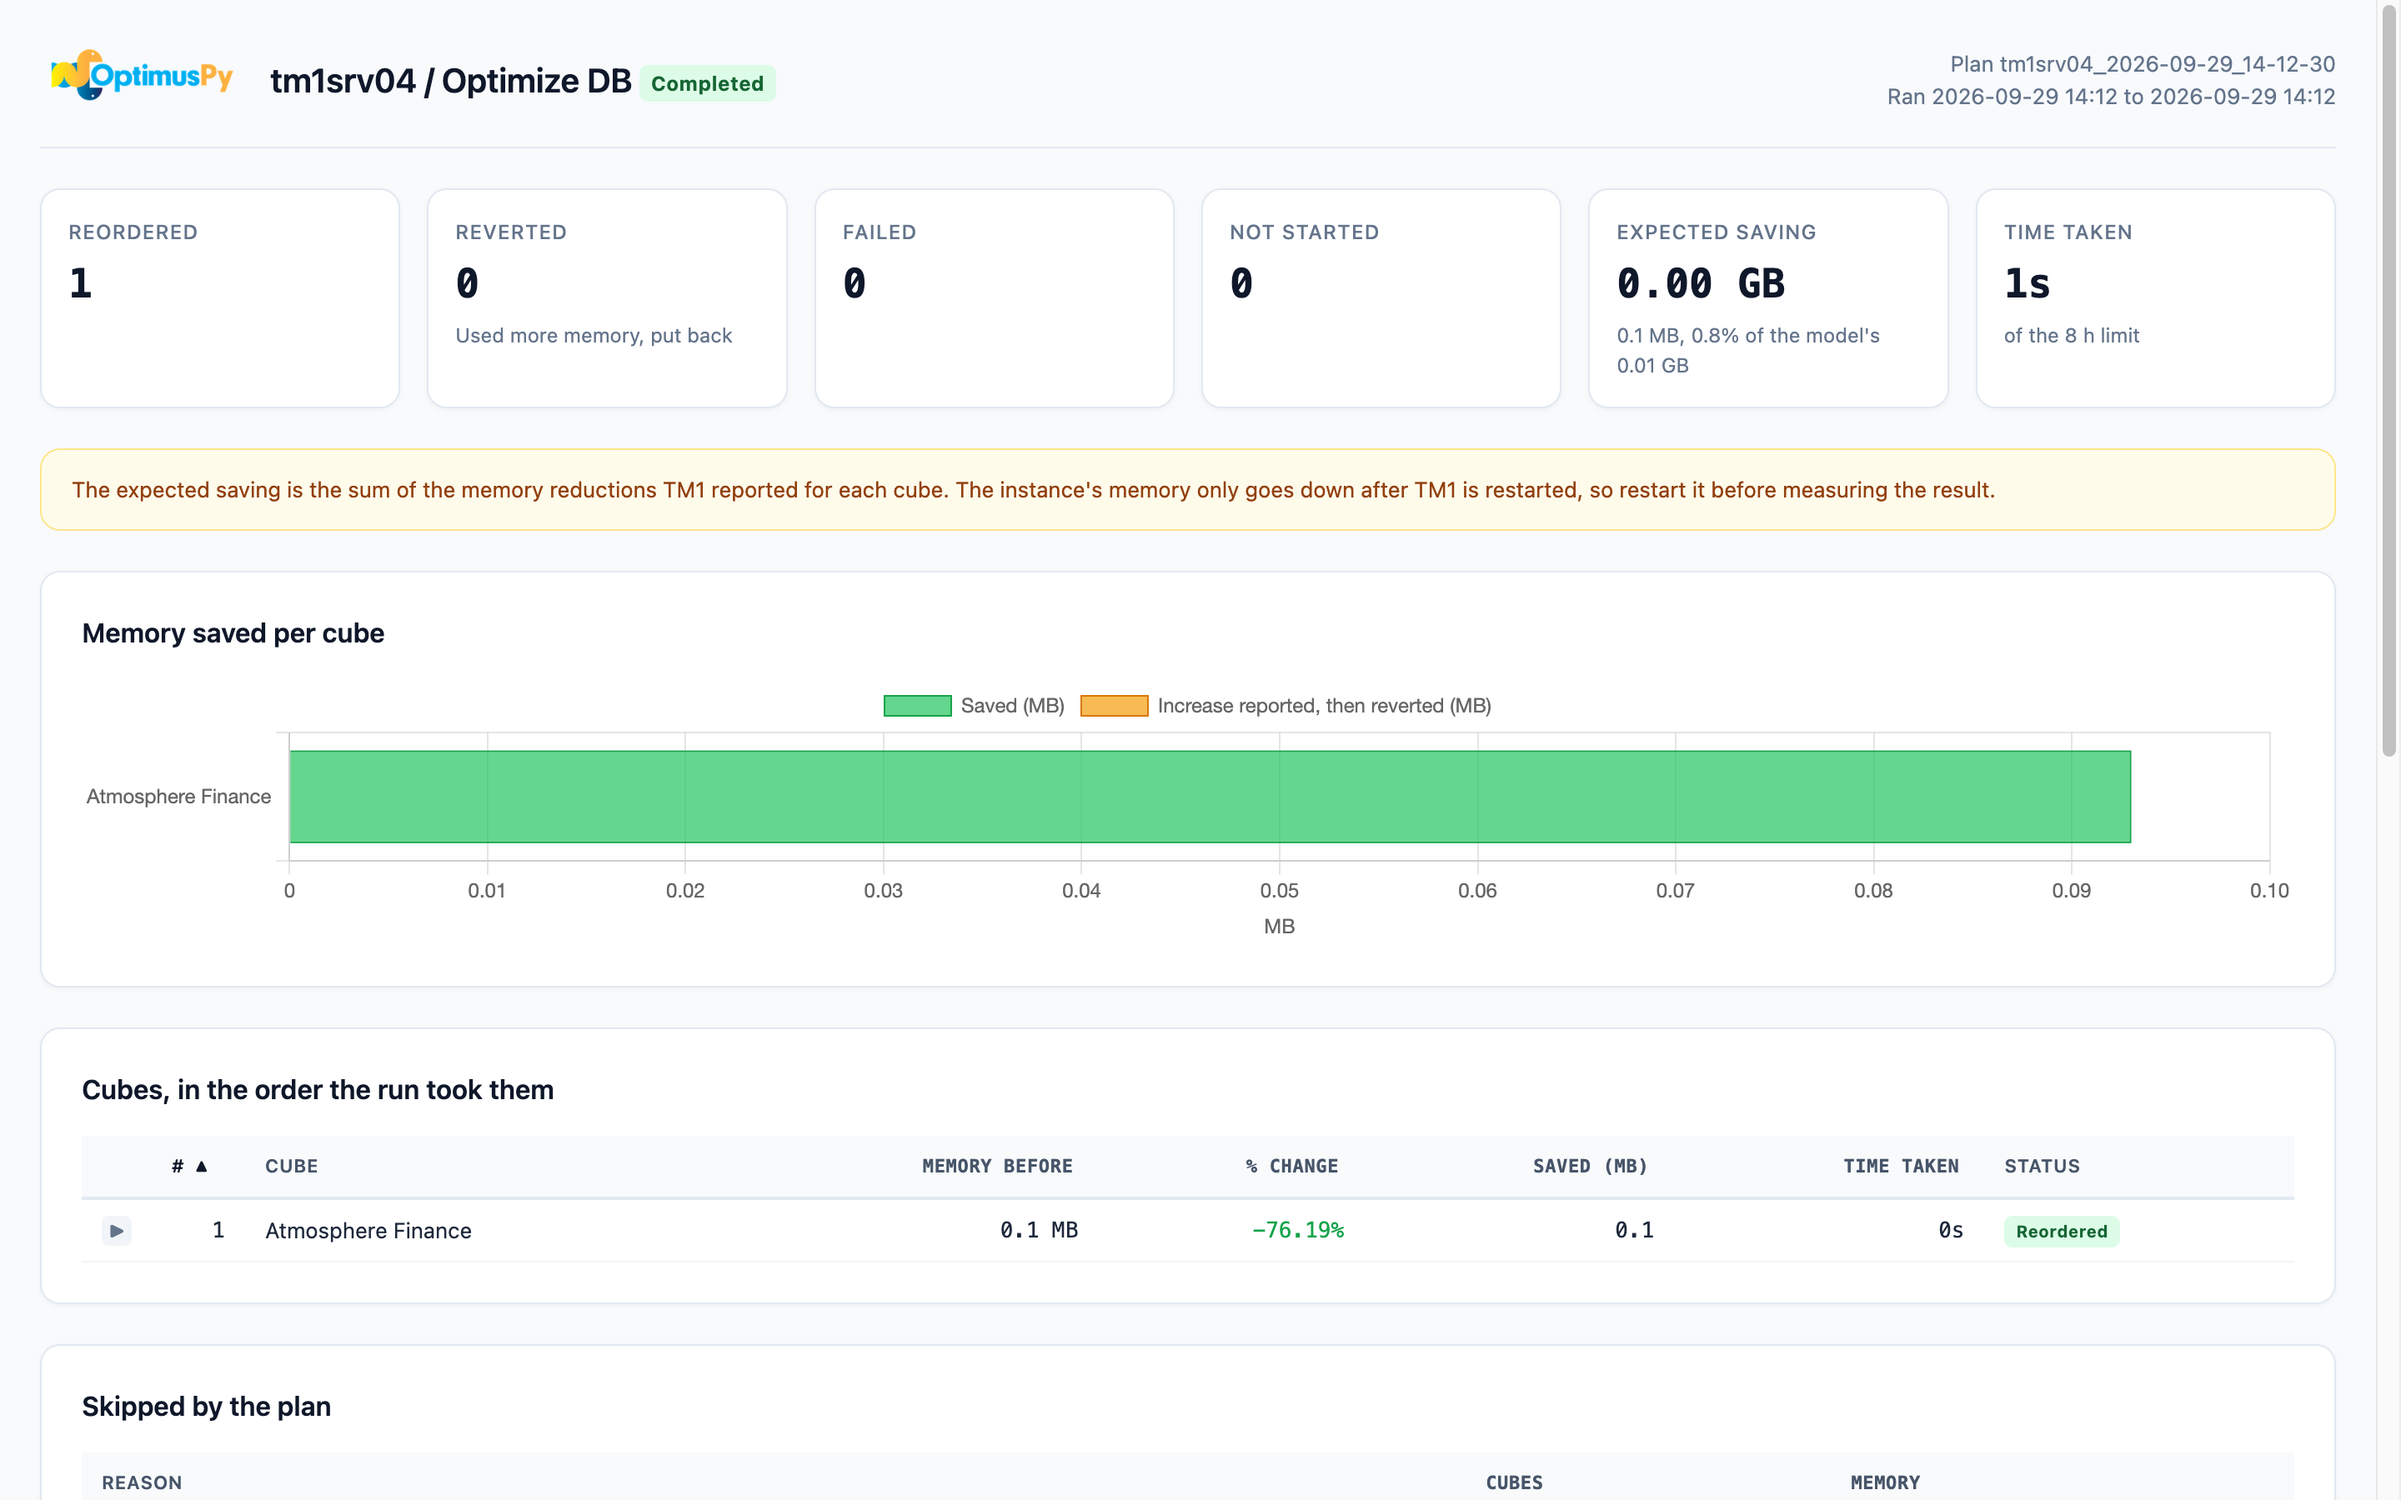
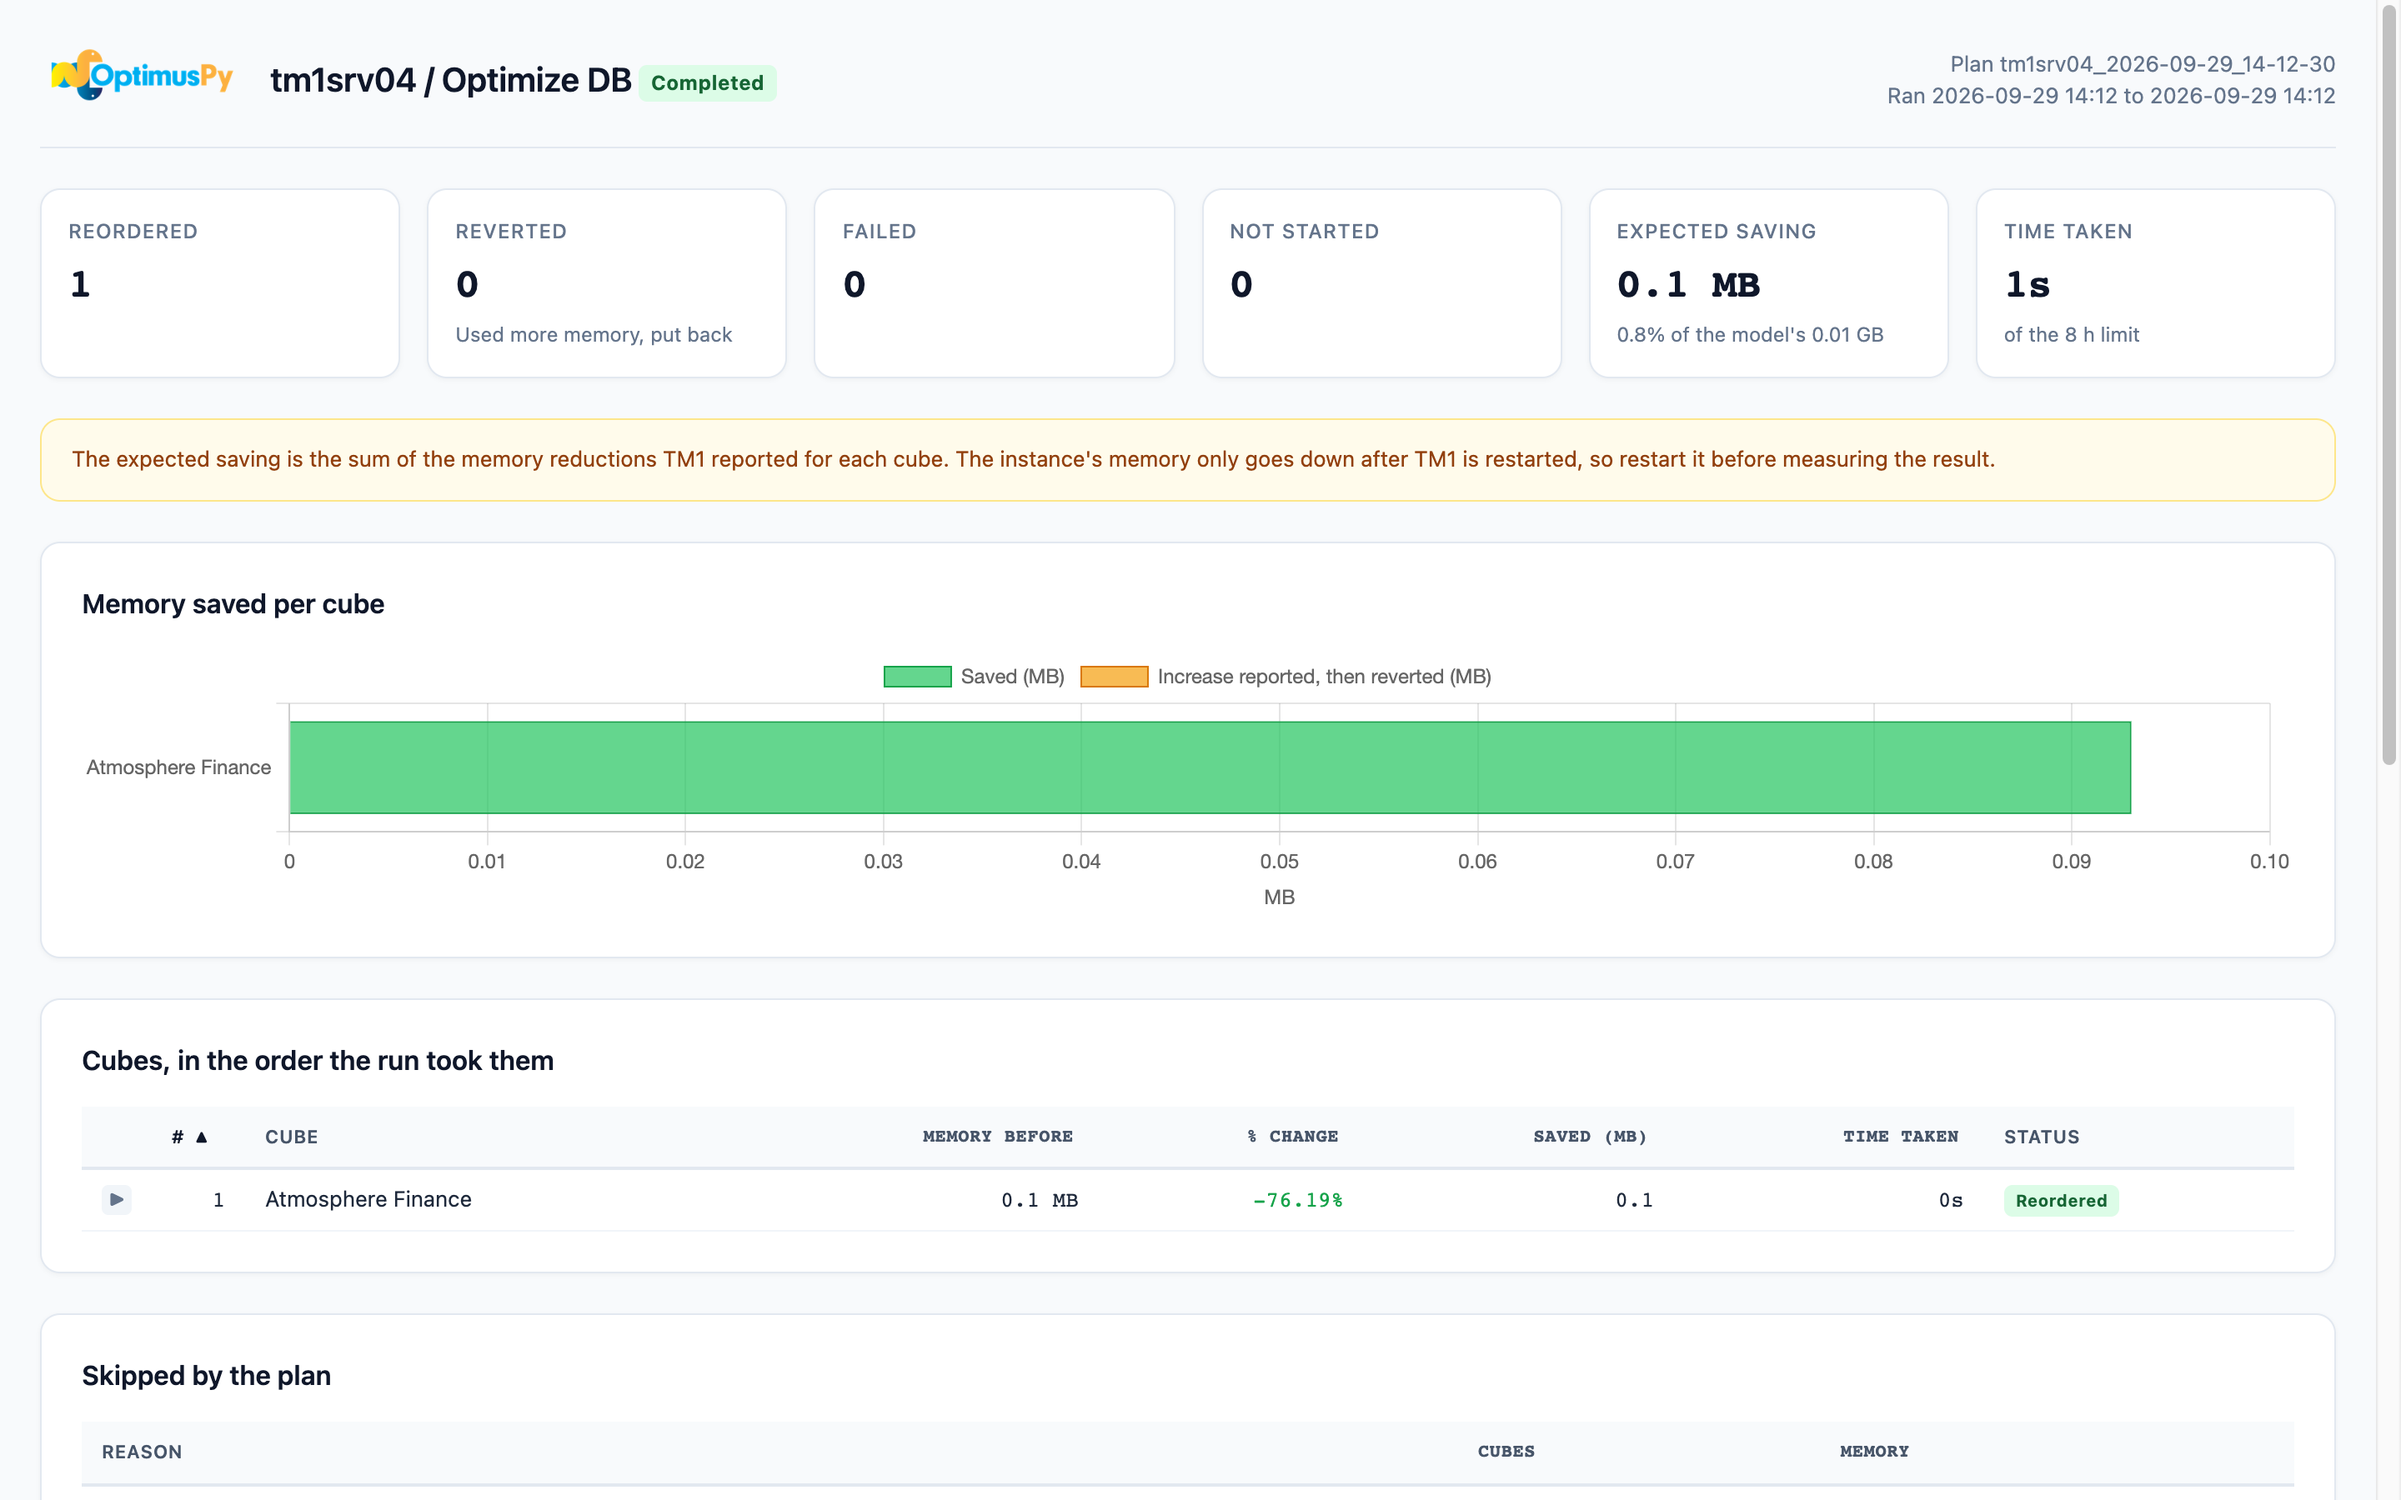
reports: a save in progress never shows in the listing, and a small saving reads in MB

diff --git a/src/optimuspy/optimize_db.py b/src/optimuspy/optimize_db.py
@@ -1055,9 +1055,9 @@ def write_report(plan: dict, run: dict, path: Path):
 
     model_bytes = plan.get("total_model_ram_bytes") or 0
     saved = totals["bytes_saved"]
-    share = f"{saved / 1024 ** 2:,.1f} MB"
-    if model_bytes:
-        share += f", {saved / model_bytes:.1%} of the model's {_gb(model_bytes):.2f} GB"
+    # Under a gigabyte the card reads in MB, so a small model doesn't show 0.00 GB.
+    saved_text = f"{_gb(saved):.2f} GB" if saved >= 1024 ** 3 else f"{saved / 1024 ** 2:,.1f} MB"
+    share = f"{saved / model_bytes:.1%} of the model's {_gb(model_bytes):.2f} GB" if model_bytes else ""
     limit = options.get("time_limit_hours")
     elapsed = format_duration(totals["elapsed_s"]) if run.get("finished_at") else "—"
 
@@ -1071,7 +1071,7 @@ def write_report(plan: dict, run: dict, path: Path):
         card("Reverted", totals["cubes_reverted"], "Used more memory, put back"),
         card("Failed", totals["cubes_failed"]),
         card("Not started", totals["cubes_pending"]),
-        card("Expected saving", f"{_gb(saved):.2f} GB", share),
+        card("Expected saving", saved_text, share),
         card("Time taken", elapsed, f"of the {limit:g} h limit" if limit is not None else ""),
     ])
 

diff --git a/tests/test_ui_server.py b/tests/test_ui_server.py
@@ -798,6 +798,7 @@ def test_reports_are_grouped_by_instance_cube_and_run(ui_server, tmp_path):
     _write_json(_plan_file(tmp_path, plan_only), {"plan_id": plan_only})
     _touch(tmp_path, "checkpoint_Sales.json")
     _touch(tmp_path, f"{inst}/notes.txt")
+    _touch(tmp_path, f"{inst}/optdb_run_{with_report}.tmp")
     _touch(tmp_path, "Sales_2025-01-01_10-00-00.csv")
 
     tree = _reports(base)
@@ -828,6 +829,7 @@ def test_reports_are_grouped_by_instance_cube_and_run(ui_server, tmp_path):
     assert [c["cube"] for c in legacy["cubes"]] == ["Sales"]
     assert _names(legacy["cubes"][0]["runs"][0]["data"]) == ["Sales_2025-01-01_10-00-00.csv"]
     assert "checkpoint" not in json.dumps(tree)
+    assert ".tmp" not in json.dumps(tree)
 
 
 def test_a_run_file_that_does_not_parse_still_lists_without_a_status(ui_server, tmp_path):

diff --git a/src/optimuspy/ui.py b/src/optimuspy/ui.py
@@ -402,9 +402,13 @@ def _reports_tree() -> dict:
     for name, files in folders.items():
         cube_runs, db_runs, other = {}, {}, []
         for f in files:
-            if f.name.startswith("checkpoint"):
+            # A `.tmp` file is a save in progress, gone once it lands.
+            if f.name.startswith("checkpoint") or f.suffix == ".tmp":
                 continue
-            stat = f.stat()
+            try:
+                stat = f.stat()
+            except FileNotFoundError:
+                continue
             info = {"filename": f.relative_to(root).as_posix(), "type": f.suffix[1:],
                     "size": stat.st_size, "modified": stat.st_mtime}
             db = next(((f.stem[len(prefix):], kind) for prefix, suffix, kind in db_kinds

diff --git a/docs/ui/reports-page.md b/docs/ui/reports-page.md
@@ -75,7 +75,7 @@ The Optimize DB report has the same look as the single-cube report, with its own
 From top to bottom:
 
 1. **Header**: the instance, the plan id, when the run started and ended, and its status: Completed, Stopped — time limit, Stopped — cancelled, Failed or Running.
-2. **Stat cards**: the cubes reordered, reverted, failed and not started; the **expected saving**, in GB and MB and as a share of the model's memory when the plan was built; and the time taken against the time limit.
+2. **Stat cards**: the cubes reordered, reverted, failed and not started; the **expected saving** (in GB, or in MB when it's under a gigabyte) and its share of the model's memory when the plan was built; and the time taken against the time limit.
 3. **A note** that the saving is what TM1 reported for each cube, and that the instance's memory only goes down after TM1 is restarted. See [After the run](../modes/optimize-db.md#after-the-run).
 4. **Memory saved per cube**: a bar chart, largest saving first. A cube that was reverted shows the increase TM1 reported in another color, which is why it was put back. Like the single-cube chart, it needs internet access for its library.
 5. **Cubes, in the order the run took them**: memory before, % change, memory saved, time taken and status, with the columns sortable. Click a row to see the cube's original and new dimension orders. An error, or a failure to put a cube back, shows under the cube's name. A `% change` marked **recovered** was measured from a memory read after a dropped connection took TM1's own answer with it.
